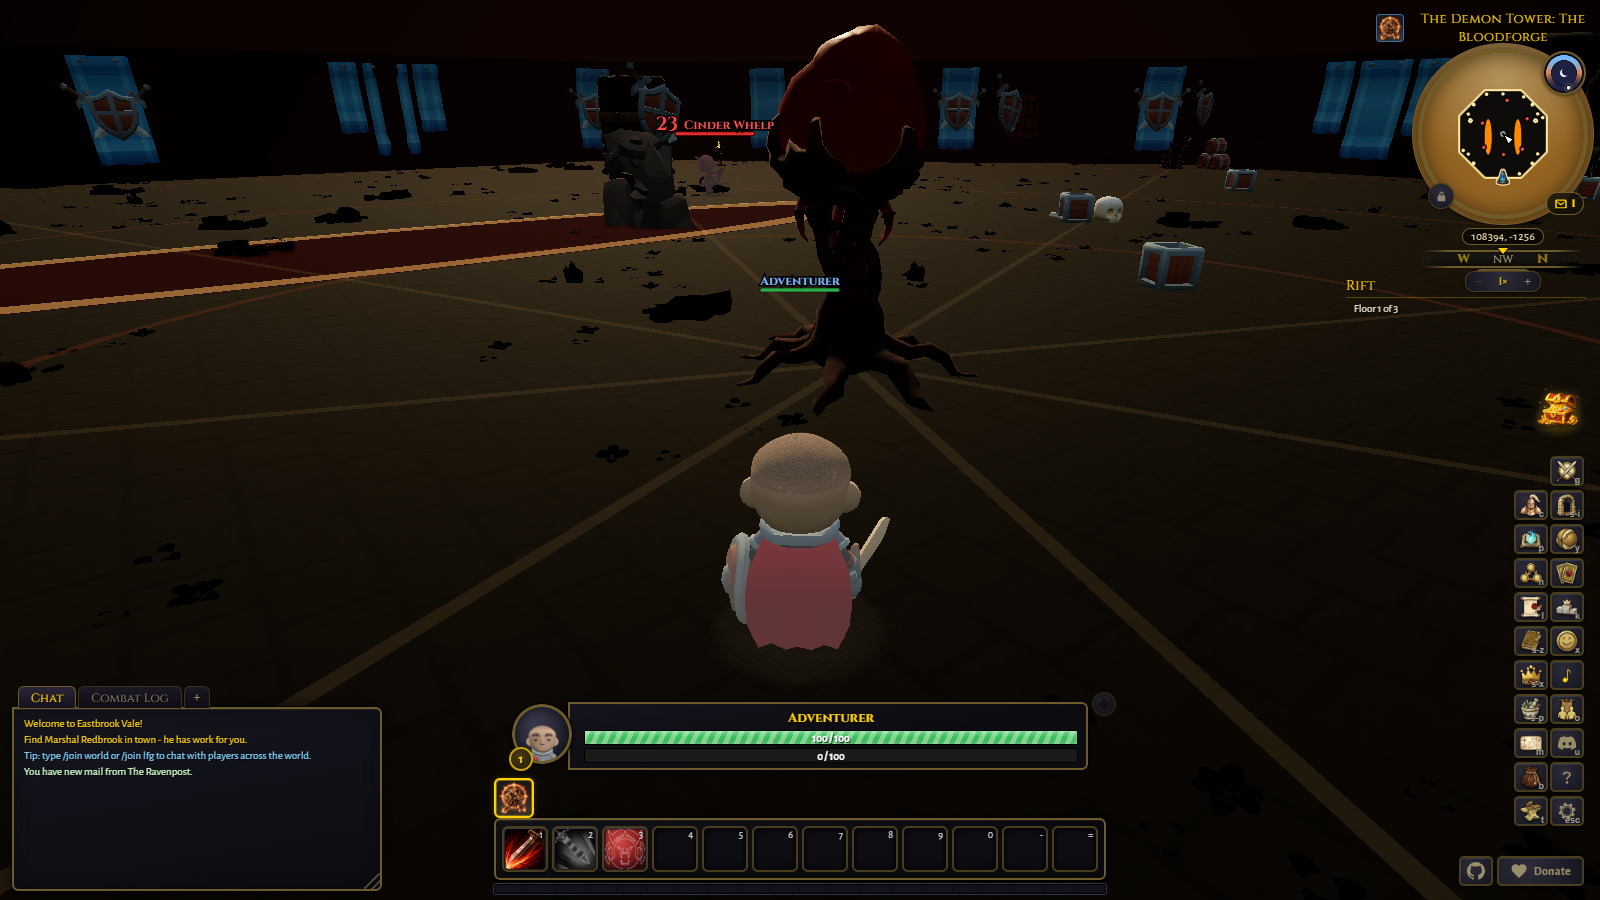
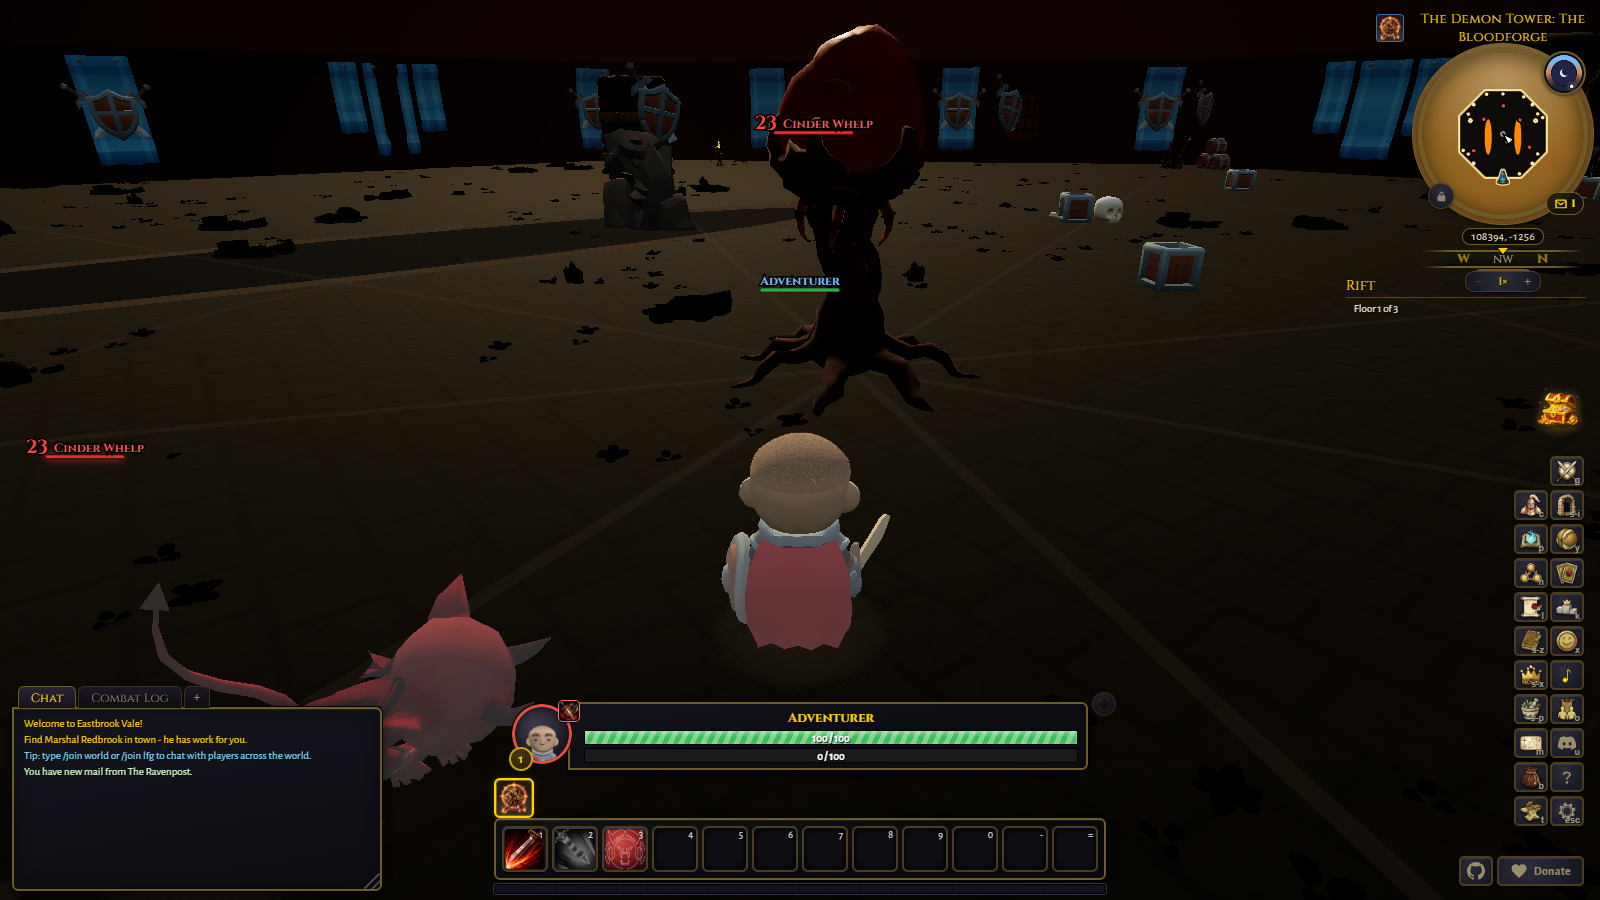
fix(render): ground Bloodforge floor effects
Replace the bright red Bloodforge overlay with a muted charcoal and bronze palette. Seat the floor, hazard channels, rims, and glow against the collision plane so they read as part of the stone instead of floating sheets.

diff --git a/tests/demon_tower_scene_core.test.ts b/tests/demon_tower_scene_core.test.ts
@@ -55,7 +55,11 @@ describe('demon tower scene core', () => {
         if (object.userData.towerFloorAccent === true) accents.push(object);
       });
       expect(grounds, `${profile} floor`).toHaveLength(1);
+      expect(grounds[0]?.position.y, `${profile} floor seated on the collision plane`).toBeLessThan(
+        0.01,
+      );
       const material = grounds[0]?.material;
+      expect(material?.polygonOffset, `${profile} floor depth bias`).toBe(true);
       const uvs = grounds[0]?.geometry.getAttribute('uv');
       const uValues = uvs ? Array.from({ length: uvs.count }, (_, i) => uvs.getX(i)) : [];
       const vValues = uvs ? Array.from({ length: uvs.count }, (_, i) => uvs.getY(i)) : [];
@@ -82,7 +86,7 @@ describe('demon tower scene core', () => {
         0.32,
       );
       expect(accents.length, `${profile} authored floor accents`).toBeGreaterThan(0);
-      const expectedOpacity = [0.18, 0.2, 0.22][index];
+      const expectedOpacity = [0.1, 0.2, 0.22][index];
       expect(demonTowerScenePlan(profile).floorAccentOpacity, `${profile} planned opacity`).toBe(
         expectedOpacity,
       );
@@ -90,7 +94,9 @@ describe('demon tower scene core', () => {
         const accentMaterial = accent.material as THREE.MeshBasicMaterial;
         expect(accentMaterial.blending, `${profile} accent blending`).toBe(THREE.NormalBlending);
         expect(accentMaterial.opacity, `${profile} accent opacity`).toBe(expectedOpacity);
-        expect(accentMaterial.opacity, `${profile} accent visibility`).toBeGreaterThanOrEqual(0.16);
+        expect(accent.position.y, `${profile} accent seated on the floor`).toBeLessThanOrEqual(
+          0.01,
+        );
       }
     }
   });
@@ -119,9 +125,16 @@ describe('demon tower scene core', () => {
         const rim = meshes.find((mesh) => mesh.userData.riftHazard === 'rim');
         const poolMaterial = pool?.material as THREE.MeshBasicMaterial;
         const rimMaterial = rim?.material as THREE.MeshBasicMaterial;
-        expect(poolMaterial.color.getHex()).toBe(0x3b1710);
-        expect(poolMaterial.opacity).toBe(0.82);
-        expect(rimMaterial.color.getHex()).toBe(0xe3a44a);
+        expect(poolMaterial.color.getHex()).toBe(0x1b1917);
+        expect(poolMaterial.opacity).toBe(0.7);
+        expect(poolMaterial.polygonOffset).toBe(true);
+        expect(rimMaterial.color.getHex()).toBe(0x8f6a46);
+        expect(rimMaterial.opacity).toBe(0.28);
+        expect(rimMaterial.blending).toBe(THREE.NormalBlending);
+        pool?.geometry.computeBoundingBox();
+        rim?.geometry.computeBoundingBox();
+        expect(pool?.geometry.boundingBox?.max.y).toBeLessThanOrEqual(0.0121);
+        expect(rim?.geometry.boundingBox?.max.y).toBeLessThanOrEqual(0.0141);
         expect(rimMaterial.color.getHSL({ h: 0, s: 0, l: 0 }).l).toBeGreaterThan(
           poolMaterial.color.getHSL({ h: 0, s: 0, l: 0 }).l * 2,
         );
@@ -150,7 +163,8 @@ describe('demon tower scene core', () => {
       return material.map instanceof THREE.Texture;
     }) as THREE.Mesh<THREE.BufferGeometry, THREE.MeshBasicMaterial> | undefined;
     expect(glow, 'high-tier lava glow').toBeDefined();
-    expect(glow?.material.color.getHex()).toBe(0xb74b22);
+    expect(glow?.material.color.getHex()).toBe(0x5f3425);
+    expect(glow?.position.y).toBeLessThanOrEqual(0.016);
   });
 
   it('gives each floor a unique backdrop, palette and ring grammar', () => {

diff --git a/src/render/dungeon.ts b/src/render/dungeon.ts
@@ -1065,7 +1065,16 @@ export class DungeonInteriors {
     // (rx/rz), so the disc is a unit circle scaled to match the sim footprint.
     const pal =
       style === 'blackwater'
-        ? { pool: 0x0a1a12, poolOpacity: 0.82, rim: 0x3fae5a, glow: 0x2f8f4f }
+        ? {
+            pool: 0x0a1a12,
+            poolOpacity: 0.82,
+            rim: 0x3fae5a,
+            rimOpacity: 0.5,
+            glow: 0x2f8f4f,
+            poolY: 0.12,
+            rimY: 0.14,
+            glowY: 0.3,
+          }
         : riftHazardPalette(style);
     for (const h of hazards) {
       const rx = h.rx ?? h.r;
@@ -1075,12 +1084,15 @@ export class DungeonInteriors {
         new THREE.CircleGeometry(1, 28)
           .rotateX(-Math.PI / 2)
           .scale(rx, 1, rz)
-          .translate(h.x, 0.12 + y0, h.z),
+          .translate(h.x, pal.poolY + y0, h.z),
         new THREE.MeshBasicMaterial({
           color: pal.pool,
           transparent: true,
           opacity: pal.poolOpacity,
           depthWrite: false,
+          polygonOffset: true,
+          polygonOffsetFactor: -3,
+          polygonOffsetUnits: -3,
         }),
       );
       pool.renderOrder = 1; // floats over the floor tiles
@@ -1091,27 +1103,23 @@ export class DungeonInteriors {
         new THREE.RingGeometry(0.82, 1, 32)
           .rotateX(-Math.PI / 2)
           .scale(rx, 1, rz)
-          .translate(h.x, 0.14 + y0, h.z),
+          .translate(h.x, pal.rimY + y0, h.z),
         new THREE.MeshBasicMaterial({
           color: pal.rim,
           transparent: true,
-          opacity: 0.5,
+          opacity: pal.rimOpacity,
           side: THREE.DoubleSide,
           depthWrite: false,
-          blending: THREE.AdditiveBlending,
+          polygonOffset: true,
+          polygonOffsetFactor: -4,
+          polygonOffsetUnits: -4,
+          blending: style === 'tower_lava' ? THREE.NormalBlending : THREE.AdditiveBlending,
         }),
       );
       rim.renderOrder = 2;
       rim.userData.riftHazard = 'rim';
       group.add(rim);
-      this.addTorchGlow(
-        group,
-        h.x,
-        h.z,
-        pal.glow,
-        (style === 'lava' || style === 'tower_lava' ? 0.55 : 0.3) + y0,
-        Math.max(rx, rz) * 0.6,
-      );
+      this.addTorchGlow(group, h.x, h.z, pal.glow, pal.glowY + y0, Math.max(rx, rz) * 0.6);
     }
   }
 

diff --git a/src/render/demon_tower_scene.ts b/src/render/demon_tower_scene.ts
@@ -97,11 +97,14 @@ function addAccentRing(group: THREE.Group, radius: number, color: number, opacit
       transparent: true,
       opacity,
       depthWrite: false,
+      polygonOffset: true,
+      polygonOffsetFactor: -2,
+      polygonOffsetUnits: -2,
       blending: THREE.NormalBlending,
       side: THREE.DoubleSide,
     }),
   );
-  ring.position.y = 0.1;
+  ring.position.y = 0.009;
   ring.renderOrder = 2;
   ring.userData.towerEssential = 'landmark';
   ring.userData.towerFloorAccent = true;
@@ -122,13 +125,16 @@ function addRadialAccents(
     transparent: true,
     opacity,
     depthWrite: false,
+    polygonOffset: true,
+    polygonOffsetFactor: -2,
+    polygonOffsetUnits: -2,
     blending: THREE.NormalBlending,
   });
   const geometry = new THREE.PlaneGeometry(width, length).rotateX(-Math.PI / 2);
   for (let i = 0; i < count; i++) {
     const angle = phase + (i / count) * Math.PI * 2;
     const strip = new THREE.Mesh(geometry, material);
-    strip.position.set(Math.sin(angle) * (length / 2), 0.11, Math.cos(angle) * (length / 2));
+    strip.position.set(Math.sin(angle) * (length / 2), 0.01, Math.cos(angle) * (length / 2));
     strip.rotation.y = angle;
     strip.renderOrder = 2;
     strip.userData.towerFloorAccent = true;
@@ -218,9 +224,12 @@ function buildDemonTowerGeometry(
       bumpScale: profile === 'void_crown' ? 0.1 : 0.14,
       roughness: plan.floorRoughness,
       metalness: profile === 'bloodforge' ? 0.22 : 0.05,
+      polygonOffset: true,
+      polygonOffsetFactor: -1,
+      polygonOffsetUnits: -1,
     }),
   );
-  floor.position.y = 0.055;
+  floor.position.y = 0.006;
   floor.receiveShadow = true;
   floor.renderOrder = 1;
   floor.userData.towerEssential = 'floor';

diff --git a/src/render/rift_visual_core.ts b/src/render/rift_visual_core.ts
@@ -17,14 +17,54 @@ export interface RiftHazardPalette {
   pool: number;
   poolOpacity: number;
   rim: number;
+  rimOpacity: number;
   glow: number;
+  poolY: number;
+  rimY: number;
+  glowY: number;
 }
 
 const RIFT_HAZARD_PALETTES: Readonly<Record<RiftHazardStyle, RiftHazardPalette>> = {
-  lava: { pool: 0xd83410, poolOpacity: 0.9, rim: 0xffca4a, glow: 0xff5a1e },
-  tower_lava: { pool: 0x3b1710, poolOpacity: 0.82, rim: 0xe3a44a, glow: 0xb74b22 },
-  soul: { pool: 0x221247, poolOpacity: 0.9, rim: 0x73e7ff, glow: 0x9b63ff },
-  void: { pool: 0x160c32, poolOpacity: 0.92, rim: 0xf05cff, glow: 0x806dff },
+  lava: {
+    pool: 0xd83410,
+    poolOpacity: 0.9,
+    rim: 0xffca4a,
+    rimOpacity: 0.5,
+    glow: 0xff5a1e,
+    poolY: 0.12,
+    rimY: 0.14,
+    glowY: 0.55,
+  },
+  tower_lava: {
+    pool: 0x1b1917,
+    poolOpacity: 0.7,
+    rim: 0x8f6a46,
+    rimOpacity: 0.28,
+    glow: 0x5f3425,
+    poolY: 0.012,
+    rimY: 0.014,
+    glowY: 0.016,
+  },
+  soul: {
+    pool: 0x221247,
+    poolOpacity: 0.9,
+    rim: 0x73e7ff,
+    rimOpacity: 0.5,
+    glow: 0x9b63ff,
+    poolY: 0.12,
+    rimY: 0.14,
+    glowY: 0.3,
+  },
+  void: {
+    pool: 0x160c32,
+    poolOpacity: 0.92,
+    rim: 0xf05cff,
+    rimOpacity: 0.5,
+    glow: 0x806dff,
+    poolY: 0.12,
+    rimY: 0.14,
+    glowY: 0.3,
+  },
 };
 
 export const DUNGEON_SUN_INTENSITY = 0.34;

diff --git a/tests/rift_visual_core.test.ts b/tests/rift_visual_core.test.ts
@@ -17,16 +17,24 @@ describe('rift visual core', () => {
 
   it('pins the restrained Bloodforge hazard palette without weakening the warning rim', () => {
     expect(riftHazardPalette('tower_lava')).toEqual({
-      pool: 0x3b1710,
-      poolOpacity: 0.82,
-      rim: 0xe3a44a,
-      glow: 0xb74b22,
+      pool: 0x1b1917,
+      poolOpacity: 0.7,
+      rim: 0x8f6a46,
+      rimOpacity: 0.28,
+      glow: 0x5f3425,
+      poolY: 0.012,
+      rimY: 0.014,
+      glowY: 0.016,
     });
     expect(riftHazardPalette('lava')).toEqual({
       pool: 0xd83410,
       poolOpacity: 0.9,
       rim: 0xffca4a,
+      rimOpacity: 0.5,
       glow: 0xff5a1e,
+      poolY: 0.12,
+      rimY: 0.14,
+      glowY: 0.55,
     });
   });
 

diff --git a/src/render/demon_tower_scene_core.ts b/src/render/demon_tower_scene_core.ts
@@ -22,12 +22,12 @@ export interface DemonTowerScenePlan {
 const PLANS: Readonly<Record<DemonTowerSceneProfile, DemonTowerScenePlan>> = {
   bloodforge: {
     profile: 'bloodforge',
-    floorColor: 0x191715,
+    floorColor: 0x171818,
     floorRoughness: 0.96,
     floorTextureScale: 6.5 * DEMON_TOWER_ARENA_LINEAR_SCALE,
-    floorAccentOpacity: 0.18,
-    accentColor: 0xa64724,
-    secondaryAccent: 0x80643e,
+    floorAccentOpacity: 0.1,
+    accentColor: 0x6b4030,
+    secondaryAccent: 0x61584a,
     backdropColor: 0x240805,
     backdropKind: 'forge_vault',
     ringRadii: [8.2, 17, 27.5].map((radius) => radius * DEMON_TOWER_ARENA_LINEAR_SCALE),
